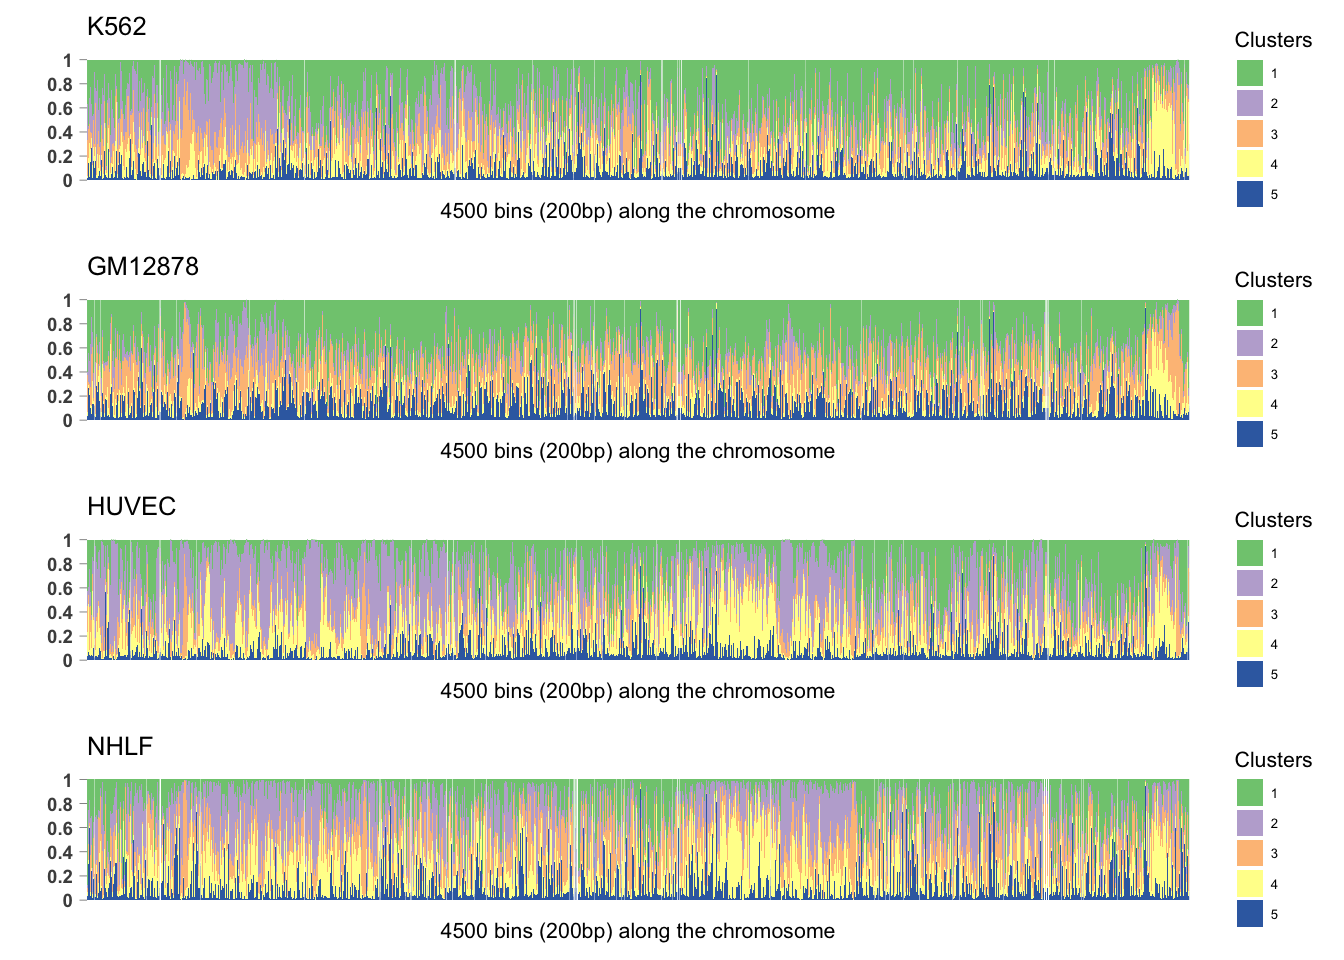
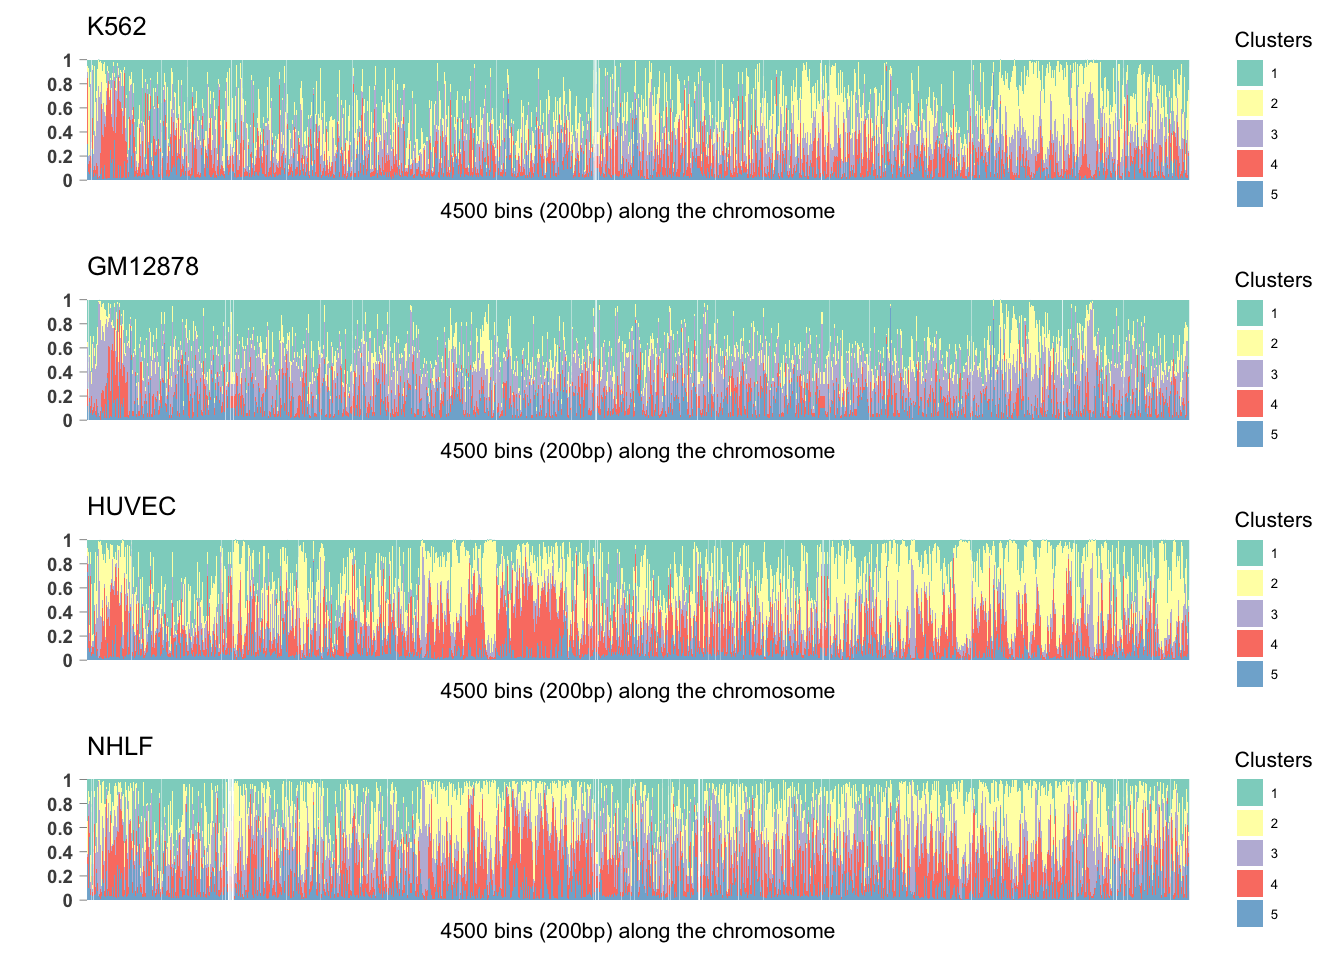
Build site.

diff --git a/docs/chrom_GoM_joint_cells.html b/docs/chrom_GoM_joint_cells.html
@@ -309,8 +309,8 @@ div.tocify {
 </div>
 
 
-<p><strong>Last updated:</strong> 2017-03-06</p>
-<p><strong>Code version:</strong> 3900d8c</p>
+<p><strong>Last updated:</strong> 2017-03-07</p>
+<p><strong>Code version:</strong> 4dfc328</p>
 <div id="load-data" class="section level2">
 <h2>load data</h2>
 <pre><code>cell types: K562 GM12878 HUVEC NHLF </code></pre>
@@ -321,8 +321,7 @@ div.tocify {
 <h2>GoM clustering</h2>
 <div id="clusters" class="section level3">
 <h3>2 clusters</h3>
-<pre><code>Fit GoM after removing 452 empty rows 
-
+<pre><code>
 Estimating on a 17548 document collection.
 Fitting the 2 topic model.
 log posterior increase: 16392.4, done.
@@ -344,8 +343,7 @@ phrase        1    2
 </div>
 <div id="clusters-1" class="section level3">
 <h3>3 clusters</h3>
-<pre><code>Fit GoM after removing 452 empty rows 
-
+<pre><code>
 Estimating on a 17548 document collection.
 Fitting the 3 topic model.
 log posterior increase: 19709.7, done.
@@ -367,8 +365,7 @@ phrase        1    2    3
 </div>
 <div id="clusters-2" class="section level3">
 <h3>4 clusters</h3>
-<pre><code>Fit GoM after removing 452 empty rows 
-
+<pre><code>
 Estimating on a 17548 document collection.
 Fitting the 4 topic model.
 log posterior increase: 22759.3, done.
@@ -390,8 +387,7 @@ phrase        1    2    3    4
 </div>
 <div id="clusters-3" class="section level3">
 <h3>5 clusters</h3>
-<pre><code>Fit GoM after removing 452 empty rows 
-
+<pre><code>
 Estimating on a 17548 document collection.
 Fitting the 5 topic model.
 log posterior increase: 20147, 290.3, done.
@@ -413,8 +409,7 @@ phrase        1    2    3    4    5
 </div>
 <div id="clusters-4" class="section level3">
 <h3>6 clusters</h3>
-<pre><code>Fit GoM after removing 452 empty rows 
-
+<pre><code>
 Estimating on a 17548 document collection.
 Fitting the 6 topic model.
 log posterior increase: 17296.4, 574.9, done.
@@ -436,8 +431,7 @@ phrase        1    2    3    4    5    6
 </div>
 <div id="clusters-5" class="section level3">
 <h3>7 clusters</h3>
-<pre><code>Fit GoM after removing 452 empty rows 
-
+<pre><code>
 Estimating on a 17548 document collection.
 Fitting the 7 topic model.
 log posterior increase: 18079.9, 464.2, 332.9, done.
@@ -473,29 +467,31 @@ attached base packages:
 [8] base     
 
 other attached packages:
-[1] flashr_0.1.1     workflowr_0.3.0  rmarkdown_1.3    gridExtra_2.2.1 
-[5] maptpx_1.9-2     slam_0.1-40      gplots_3.0.1     CountClust_0.1.2
-[9] ggplot2_2.2.1   
+ [1] flashr_0.1.1       workflowr_0.3.0    rmarkdown_1.3     
+ [4] RColorBrewer_1.1-2 randomcoloR_1.0.0  gridExtra_2.2.1   
+ [7] maptpx_1.9-2       slam_0.1-40        CountClust_0.1.2  
+[10] ggplot2_2.2.1      gplots_3.0.1      
 
 loaded via a namespace (and not attached):
  [1] gtools_3.5.0       modeltools_0.2-21  reshape2_1.4.2    
- [4] ashr_2.1.5         lattice_0.20-34    colorspace_1.3-2  
- [7] htmltools_0.3.5    stats4_3.3.2       yaml_2.1.14       
-[10] mgcv_1.8-16        RColorBrewer_1.1-2 foreach_1.4.3     
+ [4] ashr_2.1.5         lattice_0.20-34    V8_1.2            
+ [7] colorspace_1.3-2   htmltools_0.3.5    stats4_3.3.2      
+[10] yaml_2.1.14        mgcv_1.8-16        foreach_1.4.3     
 [13] plyr_1.8.4         stringr_1.2.0      munsell_0.4.3     
 [16] gtable_0.2.0       caTools_1.17.1     codetools_0.2-15  
 [19] evaluate_0.10      knitr_1.15.1       permute_0.9-4     
-[22] doParallel_1.0.10  pscl_1.4.9         flexmix_2.3-13    
-[25] parallel_3.3.2     Rcpp_0.12.9        KernSmooth_2.23-15
-[28] scales_0.4.1       backports_1.0.5    limma_3.28.21     
-[31] gdata_2.17.0       vegan_2.4-2        truncnorm_1.0-7   
-[34] picante_1.6-2      digest_0.6.12      stringi_1.1.2     
-[37] cowplot_0.7.0      rprojroot_1.2      tools_3.3.2       
-[40] bitops_1.0-6       magrittr_1.5       lazyeval_0.2.0    
-[43] tibble_1.2         cluster_2.0.5      ape_4.0           
-[46] MASS_7.3-45        Matrix_1.2-8       SQUAREM_2016.8-2  
-[49] rsconnect_0.7      assertthat_0.1     iterators_1.0.8   
-[52] nnet_7.3-12        nlme_3.1-130       git2r_0.18.0      </code></pre>
+[22] pscl_1.4.9         doParallel_1.0.10  flexmix_2.3-13    
+[25] parallel_3.3.2     curl_2.3           Rcpp_0.12.9       
+[28] KernSmooth_2.23-15 scales_0.4.1       backports_1.0.5   
+[31] limma_3.28.21      gdata_2.17.0       vegan_2.4-2       
+[34] jsonlite_1.2       truncnorm_1.0-7    picante_1.6-2     
+[37] digest_0.6.12      stringi_1.1.2      cowplot_0.7.0     
+[40] rprojroot_1.2      tools_3.3.2        bitops_1.0-6      
+[43] magrittr_1.5       lazyeval_0.2.0     tibble_1.2        
+[46] cluster_2.0.5      ape_4.0            MASS_7.3-45       
+[49] Matrix_1.2-8       SQUAREM_2016.8-2   rsconnect_0.7     
+[52] iterators_1.0.8    assertthat_0.1     nnet_7.3-12       
+[55] nlme_3.1-130       git2r_0.18.0      </code></pre>
 </div>
 
 <hr>

diff --git a/docs/chrom_ChromHMM_joint_cells.html b/docs/chrom_ChromHMM_joint_cells.html
@@ -310,17 +310,13 @@ div.tocify {
 
 
 <p><strong>Last updated:</strong> 2017-03-07</p>
-<p><strong>Code version:</strong> c10a43d</p>
+<p><strong>Code version:</strong> 4dfc328</p>
 <div id="extract-chromhmm-results" class="section level2">
 <h2>extract ChromHMM results</h2>
-<pre><code>K562 
-4500 rows 
-GM12878 
-4500 rows 
-HUVEC 
-4500 rows 
-NHLF 
-4500 rows </code></pre>
+<pre><code>K562     4500 rows 
+GM12878      4500 rows 
+HUVEC    4500 rows 
+NHLF     4500 rows </code></pre>
 </div>
 <div id="plot-chromhmm-states" class="section level2">
 <h2>plot ChromHMM states</h2>
@@ -338,28 +334,31 @@ attached base packages:
 [8] base     
 
 other attached packages:
- [1] workflowr_0.3.0    rmarkdown_1.3      RColorBrewer_1.1-2
- [4] randomcoloR_1.0.0  gridExtra_2.2.1    maptpx_1.9-2      
- [7] slam_0.1-40        CountClust_0.1.2   ggplot2_2.2.1     
-[10] gplots_3.0.1      
+ [1] flashr_0.1.1       workflowr_0.3.0    rmarkdown_1.3     
+ [4] RColorBrewer_1.1-2 randomcoloR_1.0.0  gridExtra_2.2.1   
+ [7] maptpx_1.9-2       slam_0.1-40        CountClust_0.1.2  
+[10] ggplot2_2.2.1      gplots_3.0.1      
 
 loaded via a namespace (and not attached):
- [1] Rcpp_0.12.9        git2r_0.18.0       plyr_1.8.4        
- [4] bitops_1.0-6       tools_3.3.2        digest_0.6.12     
- [7] jsonlite_1.2       nlme_3.1-130       evaluate_0.10     
-[10] tibble_1.2         gtable_0.2.0       lattice_0.20-34   
-[13] mgcv_1.8-16        Matrix_1.2-8       curl_2.3          
-[16] yaml_2.1.14        parallel_3.3.2     cluster_2.0.5     
-[19] stringr_1.2.0      knitr_1.15.1       gtools_3.5.0      
-[22] caTools_1.17.1     stats4_3.3.2       rprojroot_1.2     
-[25] nnet_7.3-12        cowplot_0.7.0      flexmix_2.3-13    
-[28] gdata_2.17.0       limma_3.28.21      reshape2_1.4.2    
-[31] magrittr_1.5       MASS_7.3-45        backports_1.0.5   
-[34] scales_0.4.1       htmltools_0.3.5    modeltools_0.2-21 
-[37] rsconnect_0.7      assertthat_0.1     permute_0.9-4     
-[40] ape_4.0            picante_1.6-2      colorspace_1.3-2  
-[43] V8_1.2             KernSmooth_2.23-15 stringi_1.1.2     
-[46] lazyeval_0.2.0     munsell_0.4.3      vegan_2.4-2       </code></pre>
+ [1] gtools_3.5.0       modeltools_0.2-21  reshape2_1.4.2    
+ [4] ashr_2.1.5         lattice_0.20-34    V8_1.2            
+ [7] colorspace_1.3-2   htmltools_0.3.5    stats4_3.3.2      
+[10] yaml_2.1.14        mgcv_1.8-16        foreach_1.4.3     
+[13] plyr_1.8.4         stringr_1.2.0      munsell_0.4.3     
+[16] gtable_0.2.0       caTools_1.17.1     codetools_0.2-15  
+[19] evaluate_0.10      knitr_1.15.1       permute_0.9-4     
+[22] pscl_1.4.9         doParallel_1.0.10  flexmix_2.3-13    
+[25] parallel_3.3.2     curl_2.3           Rcpp_0.12.9       
+[28] KernSmooth_2.23-15 scales_0.4.1       backports_1.0.5   
+[31] limma_3.28.21      gdata_2.17.0       vegan_2.4-2       
+[34] jsonlite_1.2       truncnorm_1.0-7    picante_1.6-2     
+[37] digest_0.6.12      stringi_1.1.2      cowplot_0.7.0     
+[40] rprojroot_1.2      tools_3.3.2        bitops_1.0-6      
+[43] magrittr_1.5       lazyeval_0.2.0     tibble_1.2        
+[46] cluster_2.0.5      ape_4.0            MASS_7.3-45       
+[49] Matrix_1.2-8       SQUAREM_2016.8-2   rsconnect_0.7     
+[52] iterators_1.0.8    assertthat_0.1     nnet_7.3-12       
+[55] nlme_3.1-130       git2r_0.18.0      </code></pre>
 </div>
 
 <hr>

diff --git a/docs/chrom_flash_joint_cells.html b/docs/chrom_flash_joint_cells.html
@@ -309,8 +309,8 @@ div.tocify {
 </div>
 
 
-<p><strong>Last updated:</strong> 2017-03-06</p>
-<p><strong>Code version:</strong> 3900d8c</p>
+<p><strong>Last updated:</strong> 2017-03-07</p>
+<p><strong>Code version:</strong> 4dfc328</p>
 <div id="run-flash-on-chr1-test-data" class="section level2">
 <h2>run FLASH on chr1 test data</h2>
 </div>
@@ -322,7 +322,6 @@ div.tocify {
 </div>
 <div id="loadings-for-each-cell-types" class="section level3">
 <h3>Loadings for each cell types</h3>
-<pre><code>[1]    1 4500</code></pre>
 <p><img src="figure/chrom_flash_joint_cells.Rmd/flash_loadings-1.png" width="960" style="display: block; margin: auto;" /></p>
 </div>
 </div>
@@ -341,29 +340,31 @@ attached base packages:
 [8] base     
 
 other attached packages:
-[1] flashr_0.1.1     workflowr_0.3.0  rmarkdown_1.3    gridExtra_2.2.1 
-[5] maptpx_1.9-2     slam_0.1-40      gplots_3.0.1     CountClust_0.1.2
-[9] ggplot2_2.2.1   
+ [1] flashr_0.1.1       workflowr_0.3.0    rmarkdown_1.3     
+ [4] RColorBrewer_1.1-2 randomcoloR_1.0.0  gridExtra_2.2.1   
+ [7] maptpx_1.9-2       slam_0.1-40        CountClust_0.1.2  
+[10] ggplot2_2.2.1      gplots_3.0.1      
 
 loaded via a namespace (and not attached):
  [1] gtools_3.5.0       modeltools_0.2-21  reshape2_1.4.2    
- [4] ashr_2.1.5         lattice_0.20-34    colorspace_1.3-2  
- [7] htmltools_0.3.5    stats4_3.3.2       yaml_2.1.14       
-[10] mgcv_1.8-16        RColorBrewer_1.1-2 foreach_1.4.3     
+ [4] ashr_2.1.5         lattice_0.20-34    V8_1.2            
+ [7] colorspace_1.3-2   htmltools_0.3.5    stats4_3.3.2      
+[10] yaml_2.1.14        mgcv_1.8-16        foreach_1.4.3     
 [13] plyr_1.8.4         stringr_1.2.0      munsell_0.4.3     
 [16] gtable_0.2.0       caTools_1.17.1     codetools_0.2-15  
 [19] evaluate_0.10      knitr_1.15.1       permute_0.9-4     
-[22] doParallel_1.0.10  pscl_1.4.9         flexmix_2.3-13    
-[25] parallel_3.3.2     Rcpp_0.12.9        KernSmooth_2.23-15
-[28] scales_0.4.1       backports_1.0.5    limma_3.28.21     
-[31] gdata_2.17.0       vegan_2.4-2        truncnorm_1.0-7   
-[34] picante_1.6-2      digest_0.6.12      stringi_1.1.2     
-[37] cowplot_0.7.0      rprojroot_1.2      tools_3.3.2       
-[40] bitops_1.0-6       magrittr_1.5       lazyeval_0.2.0    
-[43] tibble_1.2         cluster_2.0.5      ape_4.0           
-[46] MASS_7.3-45        Matrix_1.2-8       SQUAREM_2016.8-2  
-[49] rsconnect_0.7      assertthat_0.1     iterators_1.0.8   
-[52] nnet_7.3-12        nlme_3.1-130       git2r_0.18.0      </code></pre>
+[22] pscl_1.4.9         doParallel_1.0.10  flexmix_2.3-13    
+[25] parallel_3.3.2     curl_2.3           Rcpp_0.12.9       
+[28] KernSmooth_2.23-15 scales_0.4.1       backports_1.0.5   
+[31] limma_3.28.21      gdata_2.17.0       vegan_2.4-2       
+[34] jsonlite_1.2       truncnorm_1.0-7    picante_1.6-2     
+[37] digest_0.6.12      stringi_1.1.2      cowplot_0.7.0     
+[40] rprojroot_1.2      tools_3.3.2        bitops_1.0-6      
+[43] magrittr_1.5       lazyeval_0.2.0     tibble_1.2        
+[46] cluster_2.0.5      ape_4.0            MASS_7.3-45       
+[49] Matrix_1.2-8       SQUAREM_2016.8-2   rsconnect_0.7     
+[52] iterators_1.0.8    assertthat_0.1     nnet_7.3-12       
+[55] nlme_3.1-130       git2r_0.18.0      </code></pre>
 </div>
 
 <hr>

diff --git a/docs/index.html b/docs/index.html
@@ -209,40 +209,39 @@ $(document).ready(function () {
 
 <div id="genome-annotation-clustering-using-genome-wide-chromatin-assays" class="section level2">
 <h2>Genome annotation clustering using genome-wide chromatin assays</h2>
+<div id="chromhmm" class="section level3">
+<h3>ChromHMM</h3>
+<div id="cell-types-jointly-train-on-whole-genome" class="section level4">
+<h4>4 cell types jointly (train on whole genome)</h4>
+<ul>
+<li><a href="chrom_ChromHMM_joint_cells.html">ChromHMM results (10 assays)</a></li>
+</ul>
+</div>
+</div>
 <div id="pca" class="section level3">
 <h3>PCA</h3>
-<div id="cell-types-jointly" class="section level4">
-<h4>4 cell types jointly</h4>
+<div id="cell-types-jointly-4500-bins-900000bp" class="section level4">
+<h4>4 cell types jointly (4500 bins, 900,000bp)</h4>
 <ul>
 <li><a href="chrom_PCA_joint_cells.html">PCA results (10 assays)</a></li>
 </ul>
 </div>
 </div>
-<div id="grade-of-membership-gom" class="section level3">
-<h3>Grade of Membership (GoM)</h3>
-<div id="cell-types-jointly-1" class="section level4">
-<h4>4 cell types jointly</h4>
-<ul>
-<li><p><a href="chrom_GoM_joint_cells.html">Grade of Membership (GoM) results (10 assays)</a></p></li>
-<li><p><a href="chrom_GoM_joint_cells_9marks.html">Grade of Membership (GoM) results (9 assays, without control)</a></p></li>
-</ul>
-</div>
-</div>
 <div id="flash" class="section level3">
 <h3>FLASH</h3>
-<div id="cell-types-jointly-2" class="section level4">
-<h4>4 cell types jointly</h4>
+<div id="cell-types-jointly-4500-bins-900000bp-1" class="section level4">
+<h4>4 cell types jointly (4500 bins, 900,000bp)</h4>
 <ul>
 <li><a href="chrom_flash_joint_cells.html">FLASH results (10 assays)</a></li>
 </ul>
 </div>
 </div>
-<div id="chromhmm" class="section level3">
-<h3>ChromHMM</h3>
-<div id="cell-types-jointly-3" class="section level4">
-<h4>4 cell types jointly</h4>
+<div id="grade-of-membership-gom" class="section level3">
+<h3>Grade of Membership (GoM)</h3>
+<div id="cell-types-jointly-4500-bins-900000bp-2" class="section level4">
+<h4>4 cell types jointly (4500 bins, 900,000bp)</h4>
 <ul>
-<li><a href="chrom_ChromHMM_joint_cells.html">ChromHMM results (10 assays)</a></li>
+<li><a href="chrom_GoM_joint_cells.html">Grade of Membership (GoM) results (10 assays)</a></li>
 </ul>
 </div>
 </div>
